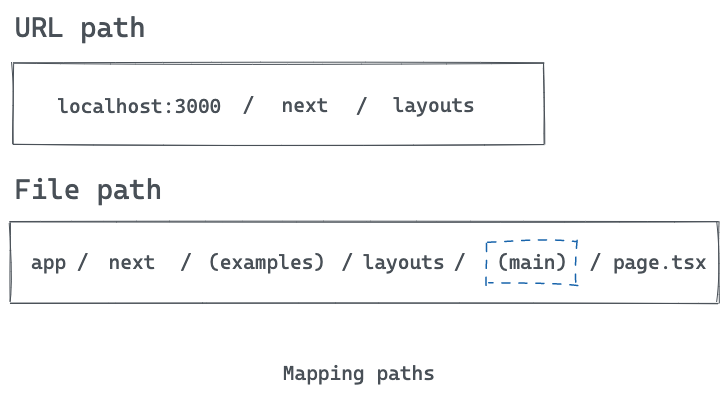
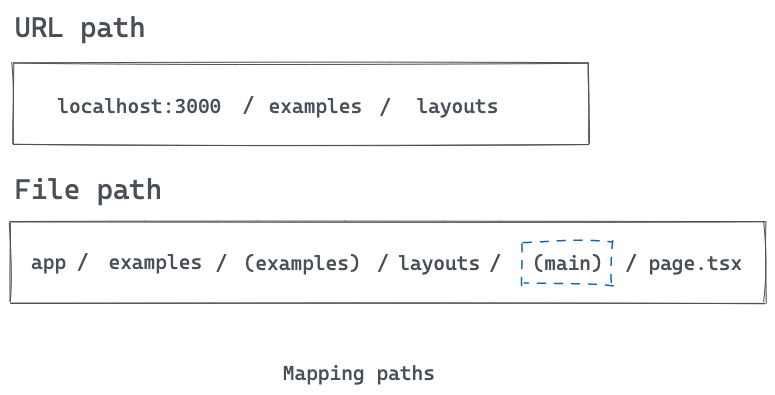
Updating demo

diff --git a/app/suspense/loading.tsx b/app/suspense/loading.tsx
@@ -9,37 +9,37 @@ export default function Loading() {
 function LoadingSkeleton() {
     return (
         <section className="space-y-4">
-            <div className="h-9 w-1/2 rounded-md bg-gray-200 sm:h-10" />
+            <div className="skeleton h-9 w-1/2 rounded-md sm:h-10" />
             <article className="space-y-6">
-                <div className="animate-pulse space-y-3">
+                <div className="space-y-2">
                     {createArr(3).map(() => (
                         <div
                             key={nanoid()}
-                            className="h-5 w-full rounded-md bg-gray-200"
+                            className="skeleton h-6 w-full rounded-md"
                         ></div>
                     ))}
                 </div>
-                <div className="animate-pulse space-y-3">
+                <div className="space-y-2">
                     {createArr(5).map(() => (
                         <div
                             key={nanoid()}
-                            className="h-5 w-full rounded-md bg-gray-200"
+                            className="skeleton h-6 w-full rounded-md"
                         ></div>
                     ))}
                 </div>
-                <div className="animate-pulse space-y-3">
+                <div className="space-y-2">
                     {createArr(5).map(() => (
                         <div
                             key={nanoid()}
-                            className="h-5 w-full rounded-md bg-gray-200"
+                            className="skeleton h-6 w-full rounded-md"
                         ></div>
                     ))}
                 </div>
-                <div className="animate-pulse space-y-3">
+                <div className="space-y-2">
                     {createArr(5).map(() => (
                         <div
                             key={nanoid()}
-                            className="h-5 w-full rounded-md bg-gray-200"
+                            className="skeleton h-6 w-full rounded-md"
                         ></div>
                     ))}
                 </div>

diff --git a/app/tailwind/loading.tsx b/app/tailwind/loading.tsx
@@ -9,37 +9,37 @@ export default function Loading() {
 function LoadingSkeleton() {
     return (
         <section className="space-y-4">
-            <div className="h-9 w-1/2 rounded-md bg-gray-200 sm:h-10" />
+            <div className="skeleton h-9 w-1/2 rounded-md sm:h-10" />
             <article className="space-y-6">
-                <div className="animate-pulse space-y-3">
+                <div className="space-y-2">
                     {createArr(2).map(() => (
                         <div
                             key={nanoid()}
-                            className="h-5 w-full rounded-md bg-gray-200"
+                            className="skeleton h-6 w-full rounded-md"
                         ></div>
                     ))}
                 </div>
-                <div className="animate-pulse space-y-3">
+                <div className="space-y-2">
                     {createArr(4).map(() => (
                         <div
                             key={nanoid()}
-                            className="h-5 w-full rounded-md bg-gray-200"
+                            className="skeleton h-6 w-full rounded-md"
                         ></div>
                     ))}
                 </div>
-                <div className="animate-pulse space-y-3">
+                <div className="space-y-2">
                     {createArr(9).map(() => (
                         <div
                             key={nanoid()}
-                            className="h-5 w-full rounded-md bg-gray-200"
+                            className="skeleton h-6 w-full rounded-md"
                         ></div>
                     ))}
                 </div>
-                <div className="animate-pulse space-y-3">
+                <div className="space-y-2">
                     {createArr(3).map(() => (
                         <div
                             key={nanoid()}
-                            className="h-5 w-full rounded-md bg-gray-200"
+                            className="skeleton h-6 w-full rounded-md"
                         ></div>
                     ))}
                 </div>

diff --git a/app/examples/(examples)/loading/loading.tsx b/app/examples/(examples)/loading/loading.tsx
@@ -9,37 +9,37 @@ export default function Loading() {
 function LoadingSkeleton() {
     return (
         <section className="space-y-4">
-            <div className="h-8 w-1/2 rounded-md bg-gray-200 sm:h-9" />
+            <div className="skeleton h-8 w-1/2 rounded-md sm:h-9" />
             <article className="space-y-6">
-                <div className="animate-pulse space-y-3">
+                <div className="space-y-2">
                     {createArr(2).map(() => (
                         <div
                             key={nanoid()}
-                            className="h-5 w-full rounded-md bg-gray-200"
+                            className="skeleton h-6 w-full rounded-md"
                         ></div>
                     ))}
                 </div>
-                <div className="animate-pulse space-y-3">
+                <div className="space-y-2">
                     {createArr(8).map(() => (
                         <div
                             key={nanoid()}
-                            className="h-5 w-full rounded-md bg-gray-200"
+                            className="skeleton h-6 w-full rounded-md"
                         ></div>
                     ))}
                 </div>
-                <div className="animate-pulse space-y-3">
+                <div className="space-y-2">
                     {createArr(4).map(() => (
                         <div
                             key={nanoid()}
-                            className="h-5 w-full rounded-md bg-gray-200"
+                            className="skeleton h-6 w-full rounded-md"
                         ></div>
                     ))}
                 </div>
-                <div className="animate-pulse space-y-3">
+                <div className="space-y-2">
                     {createArr(4).map(() => (
                         <div
                             key={nanoid()}
-                            className="h-5 w-full rounded-md bg-gray-200"
+                            className="skeleton h-6 w-full rounded-md"
                         ></div>
                     ))}
                 </div>

diff --git a/app/examples/(examples)/layouts/components/Card.tsx b/app/examples/(examples)/layouts/components/Card.tsx
@@ -1,0 +1,45 @@
+export default function Card({
+    color = "bg-gray-400 dark:bg-gray-700",
+}: {
+    color?: string;
+}) {
+    return (
+        <div className="w-full rounded-md border border-gray-200 p-4 shadow">
+            <div className="flex space-x-4">
+                <div className="flex-1 space-y-6 py-1">
+                    <div className={`h-7 w-3/4 rounded ${color}`}></div>
+                    <div className="space-y-3">
+                        <div className="grid grid-cols-2 gap-4">
+                            <div
+                                className={`col-span-1 h-5 rounded ${color}`}
+                            ></div>
+                            <div
+                                className={`col-span-1 h-5 rounded ${color}`}
+                            ></div>
+                        </div>
+                        <div className={`h-5 rounded ${color}`}></div>
+                    </div>
+                </div>
+            </div>
+        </div>
+    );
+}
+
+export function CardSkeleton() {
+    return (
+        <div className="w-full rounded-md border border-gray-200 p-4 shadow">
+            <div className="flex space-x-4">
+                <div className="flex-1 space-y-6 py-1">
+                    <div className="skeleton h-7 w-3/4 rounded" />
+                    <div className="space-y-3">
+                        <div className="grid grid-cols-2 gap-4">
+                            <div className="skeleton col-span-1 h-5 w-full rounded"></div>
+                            <div className="skeleton col-span-1 h-5 w-full rounded"></div>
+                        </div>
+                        <div className="skeleton h-5 w-full rounded"></div>
+                    </div>
+                </div>
+            </div>
+        </div>
+    );
+}

diff --git a/app/examples/(examples)/layouts/(default)/loading.tsx b/app/examples/(examples)/layouts/(default)/loading.tsx
@@ -4,29 +4,29 @@ import { nanoid } from "nanoid";
 export default function Loading() {
     return (
         <section className="space-y-4">
-            <div className="h-8 w-1/2 animate-pulse rounded-md bg-gray-200 lg:h-9" />
+            <div className="skeleton h-8 w-1/2 rounded-md lg:h-9" />
             <div className="space-y-6">
-                <div className="animate-pulse space-y-3">
-                    {createArr(4).map(() => (
+                <div className="space-y-2">
+                    {createArr(3).map(() => (
                         <div
                             key={nanoid()}
-                            className="h-5 w-full rounded-md bg-gray-200"
+                            className="skeleton h-6 w-full rounded-md "
                         ></div>
                     ))}
                 </div>
-                <div className="animate-pulse space-y-3">
+                <div className="space-y-2">
                     {createArr(5).map(() => (
                         <div
                             key={nanoid()}
-                            className="h-5 w-full rounded-md bg-gray-200"
+                            className="skeleton h-6 w-full rounded-md "
                         ></div>
                     ))}
                 </div>
-                <div className="animate-pulse space-y-3">
+                <div className="space-y-2">
                     {createArr(5).map(() => (
                         <div
                             key={nanoid()}
-                            className="h-5 w-full rounded-md bg-gray-200"
+                            className="skeleton h-6 w-full rounded-md "
                         ></div>
                     ))}
                 </div>

diff --git a/app/examples/(examples)/streaming/components/Content.tsx b/app/examples/(examples)/streaming/components/Content.tsx
@@ -23,27 +23,27 @@ export default async function Content() {
 export function ContentSkeleton() {
     return (
         <div className="space-y-6">
-            <div className="animate-pulse space-y-3">
+            <div className="space-y-2">
                 {createArr(3).map(() => (
                     <div
                         key={nanoid()}
-                        className="h-5 w-full rounded-md bg-gray-200"
+                        className="skeleton h-6 w-full rounded-md"
                     ></div>
                 ))}
             </div>
-            <div className="animate-pulse space-y-3">
+            <div className="space-y-2">
                 {createArr(4).map(() => (
                     <div
                         key={nanoid()}
-                        className="h-5 w-full rounded-md bg-gray-200"
+                        className="skeleton h-6 w-full rounded-md"
                     ></div>
                 ))}
             </div>
-            <div className="animate-pulse space-y-3">
+            <div className="space-y-2">
                 {createArr(8).map(() => (
                     <div
                         key={nanoid()}
-                        className="h-5 w-full rounded-md bg-gray-200"
+                        className="skeleton h-6 w-full rounded-md"
                     ></div>
                 ))}
             </div>

diff --git a/app/examples/(examples)/layouts/components/Tabs.tsx b/app/examples/(examples)/layouts/components/Tabs.tsx
@@ -1,13 +1,13 @@
 "use client";
 
-import { useSelectedLayoutSegments } from "next/navigation";
-import { nextCategories as categories } from "#/lib/config";
+import { usePathname } from "next/navigation";
+import { categories } from "#/lib/config";
 import { nanoid } from "nanoid";
 import Link from "next/link";
 
 export default function Tabs() {
-    let segment = useSelectedLayoutSegments()[1] as string;
-    segment = segment === undefined ? "/" : segment;
+    let segment = usePathname()?.split("/").at(-1) as string;
+    segment = segment === "layouts" ? "/" : segment;
 
     return (
         <ul className="flex flex-wrap items-center gap-3 py-4">
@@ -17,7 +17,7 @@ export default function Tabs() {
                         className={`underline underline-offset-4 ${
                             segment === href ? "decoration-transparent" : ""
                         }`}
-                        href={`/next/${href}`}
+                        href={`/examples/layouts/${href}`}
                     >
                         {label}
                     </Link>

diff --git a/app/examples/components/Tabs.tsx b/app/examples/components/Tabs.tsx
@@ -1,13 +1,13 @@
 "use client";
 
-import { usePathname } from "next/navigation";
-import { categories } from "#/lib/config";
+import { useSelectedLayoutSegments } from "next/navigation";
+import { nextCategories as categories } from "#/lib/config";
 import { nanoid } from "nanoid";
 import Link from "next/link";
 
 export default function Tabs() {
-    let segment = usePathname()?.split("/").at(-1) as string;
-    segment = segment === "layouts" ? "/" : segment;
+    let segment = useSelectedLayoutSegments()[1] as string;
+    segment = segment === undefined ? "/" : segment;
 
     return (
         <ul className="flex flex-wrap items-center gap-3 py-4">
@@ -17,7 +17,7 @@ export default function Tabs() {
                         className={`underline underline-offset-4 ${
                             segment === href ? "decoration-transparent" : ""
                         }`}
-                        href={`/next/layouts/${href}`}
+                        href={`/examples/${href}`}
                     >
                         {label}
                     </Link>

diff --git a/tailwind.config.js b/tailwind.config.js
@@ -9,12 +9,13 @@ module.exports = {
         extend: {
             animation: {
                 pulse: "pulse 1.5s cubic-bezier(0.4, 0, 0.6, 1) infinite",
+                shimmer: "shimmer 1.5s infinite",
                 fly: "fly 3s cubic-bezier(0.25, 0.75, 0.75, 0.25) infinite",
             },
             keyframes: {
                 pulse: {
                     "0%, 100%": {
-                        opacity: 0,
+                        opacity: 0.2,
                     },
                     "50%": {
                         opacity: 1,
@@ -26,6 +27,11 @@ module.exports = {
                     },
                     "75%, 100%": {
                         left: "110%",
+                    },
+                },
+                shimmer: {
+                    "100%": {
+                        transform: "translateX(100%)",
                     },
                 },
             },

diff --git a/app/examples/(examples)/layouts/catalog/loading.tsx b/app/examples/(examples)/layouts/catalog/loading.tsx
@@ -1,0 +1,22 @@
+import { CardSkeleton } from "../components/Card";
+
+export default function Loading() {
+    return (
+        <section>
+            <div className="space-y-4">
+                <div className="skeleton h-7 w-1/2 rounded-md bg-gray-200 lg:h-8" />
+                <div className="grid grid-cols-3 gap-3">
+                    <CardSkeleton />
+                    <CardSkeleton />
+                    <CardSkeleton />
+                    <CardSkeleton />
+                    <CardSkeleton />
+                    <CardSkeleton />
+                    <CardSkeleton />
+                    <CardSkeleton />
+                    <CardSkeleton />
+                </div>
+            </div>
+        </section>
+    );
+}

diff --git a/app/examples/(examples)/layouts/checkout/loading.tsx b/app/examples/(examples)/layouts/checkout/loading.tsx
@@ -1,0 +1,22 @@
+import { CardSkeleton } from "../components/Card";
+
+export default function Loading() {
+    return (
+        <section>
+            <div className="space-y-4">
+                <div className="skeleton h-7 w-1/2 rounded-md bg-gray-200 lg:h-8" />
+                <div className="grid grid-cols-3 gap-3">
+                    <CardSkeleton />
+                    <CardSkeleton />
+                    <CardSkeleton />
+                    <CardSkeleton />
+                    <CardSkeleton />
+                    <CardSkeleton />
+                    <CardSkeleton />
+                    <CardSkeleton />
+                    <CardSkeleton />
+                </div>
+            </div>
+        </section>
+    );
+}

diff --git a/app/page.tsx b/app/page.tsx
@@ -31,7 +31,7 @@ export default function Home() {
                             <Link href="/suspense">Suspense and React 18</Link>
                         </li>
                         <li>
-                            <Link href="/next">
+                            <Link href="/examples">
                                 Design Patterns for Loading UI in Next 13
                             </Link>
                         </li>
